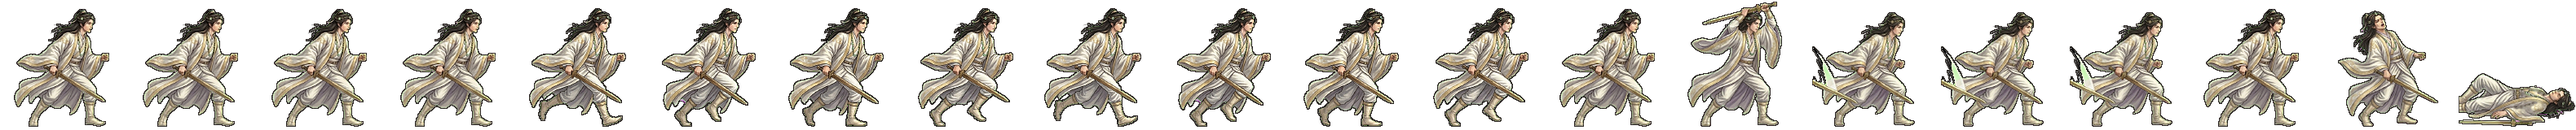
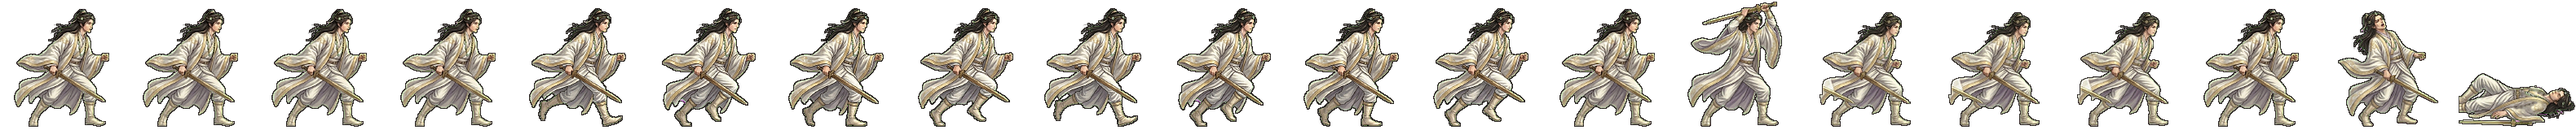
전투 띠 새로: hyeokgeose 동작 띠 다시 — 형이 구움 (굽기 꾸러미 · 검수 1·3번) (형 11-08)
Claude-Session: https://claude.ai/code/session_01TRiuNAG8xSjdmjCFpc8Rd5

Changed region(s): [[0.6823, 0.0938, 0.8684, 0.9688]]

diff --git a/src/ui/realm/battle-strikes.ts b/src/ui/realm/battle-strikes.ts
@@ -140,7 +140,7 @@ const CONTACT: Readonly<Record<string, [number, number, number]>> = {
   'gen-g-spear': [15, .99, .32], 'gen-g-sword': [16, .99, .33], 'gen-w-spear': [14, .98, .56],
   'gen-mount': [15, .98, .22], 'gen-ara': [14, 0.91, 0.65], 'gen-aryeong': [14, 0.99, 0.34],
   'gen-daeso': [14, 0.95, 0.34], 'gen-eureum': [14, .95, .13], 'gen-gamsil': [14, 0.94, 0.76],
-  'gen-haebi': [14, 0.87, 0.73], 'gen-heo': [14, 0.94, 0.46], 'gen-hyeokgeose': [14, 0.85, 0.94],
+  'gen-haebi': [14, 0.87, 0.73], 'gen-heo': [14, 0.94, 0.46], 'gen-hyeokgeose': [14, 0.83, 0.94],
   'gen-hyeopbo': [14, .93, .21], 'gen-malgalgi': [14, 0.88, 0.28], 'gen-mari': [14, .98, .47],
   'gen-oi': [14, .98, .48], 'gen-onjo': [14, 0.83, 0.93], 'gen-soebi': [14, 0.80, 0.95],
   'gen-soseono': [14, 0.99, 0.36], 'gen-maryeo': [14, 0.91, 0.79], 'gen-horselord': [14, 0.89, 0.25], 'gen-olddaeso': [14, 0.93, 0.91], 'gen-maro': [14, 0.97, 0.49], 'gen-gwaeyu': [14, 0.98, 0.71], 'gen-daemusin': [14, 0.91, 0.38], 'gen-tahae': [14, 0.91, 0.74], 'gen-ocheongan': [14, 0.82, 0.49], 'gen-yusugan': [14, 0.95, 0.70], 'gen-odogan': [14, 0.96, 0.33], 'gen-pidogan': [14, 0.94, 0.75], 'gen-yeodogan': [14, 0.93, 0.57], 'gen-adogan': [14, 0.95, 0.41], 'gen-musoe': [14, 0.94, 0.39], 'gen-suro': [14, 0.82, 0.53], 'gen-waechief': [14, 0.95, 0.68], 'gen-hojin': [14, 0.97, 0.64], 'gen-jita': [14, 0.93, 0.29], 'gen-guryema': [14, 0.89, 0.28], 'gen-jibaekho': [14, 0.97, 0.33], 'gen-sobeol': [14, 0.95, 0.33], 'gen-alpyeong': [14, 0.95, 0.54], 'gen-hogong': [14, 0.98, 0.27], 'gen-geumbawi': [14, 0.91, 0.92], 'gen-keundol': [14, 0.90, 0.68], 'gen-jinha': [14, 0.76, 0.93], 'gen-duman': [14, 0.97, 0.39], 'gen-gomok': [14, 0.94, 0.57], 'gen-hneoul': [14, 0.92, 0.27], 'gen-tneoul': [14, 0.84, 0.57], 'gen-sdallae': [14, 0.89, 0.29], 'gen-yucheongan': [14, 0.97, 0.64], 'gen-sincheongan': [14, 0.91, 0.71], 'gen-singwigan': [14, 0.98, 0.21], 'gen-mdallae': [14, 0.98, 0.29], 'gen-mulbeom': [14, 0.95, 0.39], 'gen-beomi': [14, 0.88, 0.43], 'gen-danbi': [14, 0.90, 0.30], 'gen-mulsae': [14, 0.92, 0.46], 'gen-darae': [14, 0.89, 0.29], 'gen-mir': [14, 0.91, 0.33], 'gen-wan': [14, 0.94, 0.30], 'gen-gom': [14, 0.94, 0.74], 'gen-sagong': [14, 0.79, 0.96], 'gen-halla': [14, 0.86, 0.46], 'gen-areum': [14, 0.86, 0.65], 'gen-dokmudeom': [14, 0.95, 0.28], 'gen-beom': [14, 0.98, 0.28], 'gen-baram': [14, 0.96, 0.24], 'gen-goeun': [14, 0.95, 0.66], 'gen-byeol': [14, 0.76, 0.96], 'gen-sinneoul': [14, 0.95, 0.33], 'gen-haesol': [14, 0.95, 0.39], 'gen-odi': [14, 0.95, 0.37], 'gen-irang': [14, 0.86, 0.30], 'gen-dalli': [14, 0.89, 0.32], 'gen-bakdal': [14, 0.94, 0.27], 'gen-noeul': [14, 0.88, 0.27], 'gen-maehwa': [14, 0.90, 0.31], 'gen-gaon': [14, 0.98, 0.48], 'gen-eomni': [14, 0.96, 0.42], 'gen-nuri': [14, 0.98, 0.42], 'gen-bira': [14, 0.88, 0.42], 'gen-gureum': [14, 0.98, 0.42],
